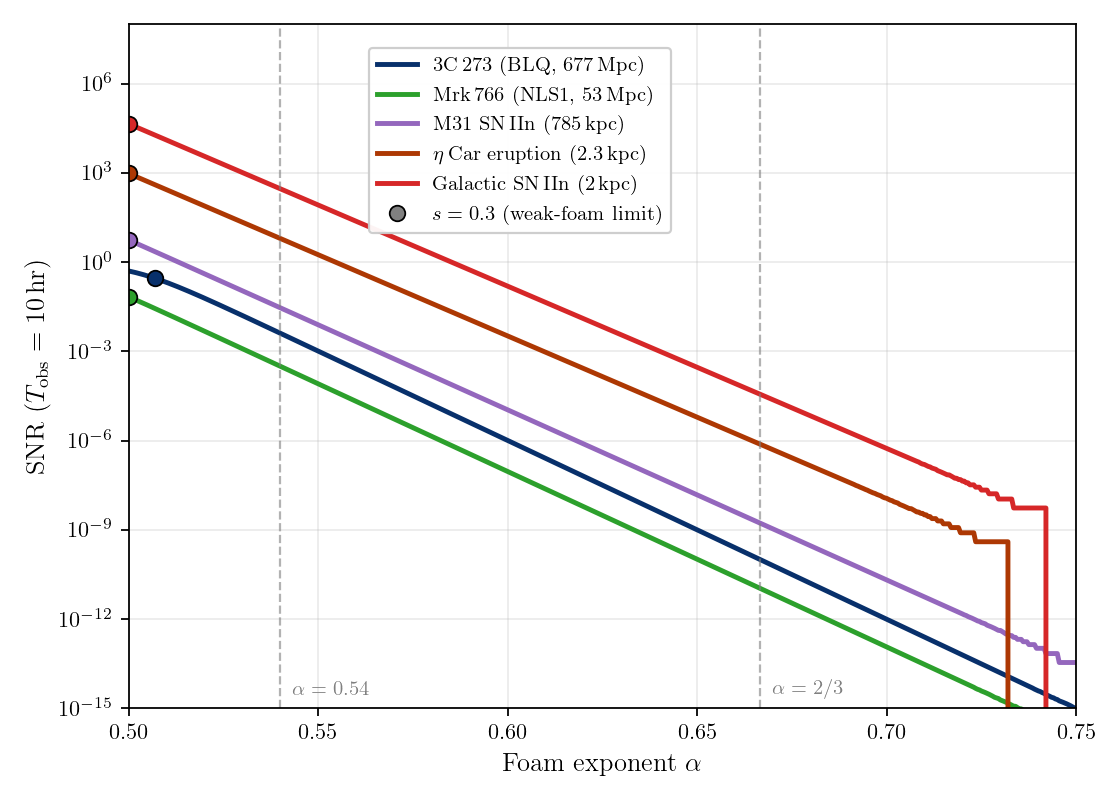
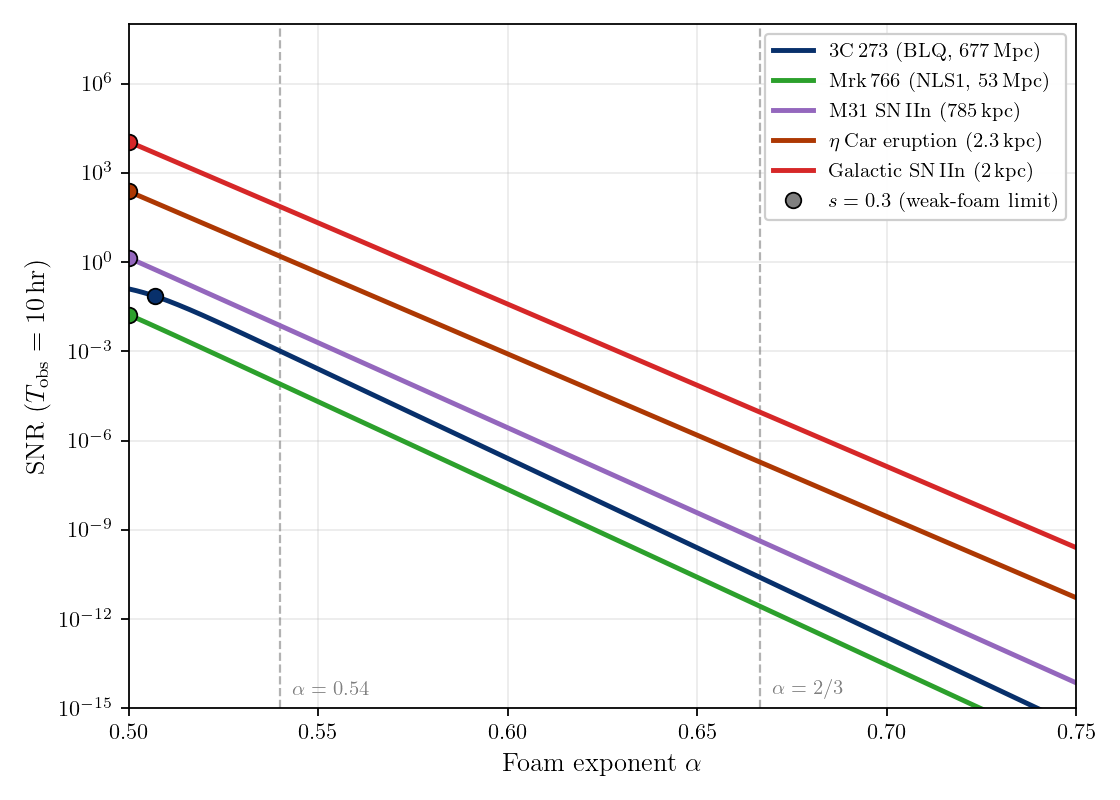
paper.tex: apply 1/4 HBT SNR prefactor, add systematics paragraph; fix figure numerics
- Insert eq:snr_hbt (fundamental single-aperture HBT SNR for unpolarized light)
  with 1/4 prefactor accounting for beamsplitter and polarization dilution,
  citing Guerin et al. 2025
- Apply 1/4 prefactor to eq:snr_det_pt, eq:snr_det_ext, and source-limited
  expressions; update weak-foam limit coefficients accordingly
- Add paragraph noting systematic error control as a separate challenge
- Rename snr_vs_alpha_extended -> snr_vs_alpha
- Fix numerical overflow/underflow in signal computation using erfcx and expm1
- Add Guerin2025 to references.bib

Changed region(s): [[0.0938, 0.0625, 0.9688, 0.9062], [0.6875, 0.0312, 0.9688, 0.2812]]

diff --git a/docs/paper.tex b/docs/paper.tex
@@ -1267,6 +1267,36 @@ prediction $g^{(2)}_{\rm src}-1=|g^{(1)}_{\rm src}|^2$, built from the source
 spectrum via the Wiener--Khinchin theorem; neither requires a separate model of
 the source.
 
+For a single-aperture HBT configuration using a 50/50 beamsplitter with
+unpolarized light, the fundamental signal-to-noise
+ratio~\cite{Guerin2025} is
+\begin{equation}
+\textrm{SNR}_{\rm unpol}
+\;=\; \frac{1}{4}\,\frac{R}{N_s}\,\tau_c\,
+\sqrt{\frac{T_{\rm obs}}{\tau_r}}\,,
+\label{eq:snr_hbt}
+\end{equation}
+where $R$ is the total incident photon count rate, $N_s$ the number of
+spatial modes captured by the aperture, $\tau_c$ the optical coherence time
+of the source, $\tau_r$ the timing resolution (correlation bin width) of the
+detectors, and $T_{\rm obs}$ the total observation time.  The prefactor
+$1/4 = 1/(2\,N_p)$ with $N_p = 2$ polarization modes reflects the fact that
+only photons sharing a polarization state contribute to the bunching signal,
+while the shot noise is set by the total (polarization-summed) count rate at
+each detector.  Equivalently one may write $\textrm{SNR} = \frac{1}{2}
+(R/N_s N_p)\,\tau_c\sqrt{T_{\rm obs}/\tau_r}$, grouping all mode dilution
+into a single factor.
+
+Achieving a statistically significant SNR is a necessary but not sufficient
+condition for a foam detection.  A separate and equally demanding challenge
+is controlling systematic errors---spurious correlations arising from
+detector afterpulsing, electronic crosstalk, optical reflections, and
+atmospheric scintillation---to levels below the expected foam signal
+$|\mathcal{S}|$.  Because the foam signatures are small ($|\mathcal{S}|\ll 1$
+for all viable foam models), even modest systematics can mimic or mask the
+effect; the experimental program must therefore pair SNR estimates with a
+careful systematic budget.
+
 The photon-counting rate is $R = \epsilon\, A\, \dot{n}$, where $\dot{n}$ is the
 source photon flux per unit area within the filter bandpass, $\epsilon$ the
 end-to-end throughput, and $A$ the collecting area. We adopt the baseline
@@ -1280,7 +1310,9 @@ the measurement sits firmly in the detector-limited regime: an unresolved
 foam feature of width $\tau_L$ is diluted to
 $(\tau_L/\sigma_t)\,|\mathcal{S}|$ in a time bin of width $\sigma_t$, with
 statistical noise
-$\sigma[g^{(2)}_{\rm meas}]=1/(R\sqrt{\sigma_t T_{\rm obs}})$. We present the
+$\sigma[g^{(2)}_{\rm meas}]=1/(R\sqrt{\sigma_t T_{\rm obs}})$; the full SNR
+additionally carries the $\tfrac{1}{4}$ mode-dilution prefactor of
+Eq.~\ref{eq:snr_hbt}. We present the
 detector-limited SNR as the primary case throughout and quote the source-limited
 limit ($\tau_L \gtrsim \sigma_t$, requiring sub-ps timing) only as the gain
 that next-generation detectors would unlock with precision optics.
@@ -1308,14 +1340,14 @@ With $\sigma_t \gg \tau_L$ for all sources of interest, the bunching feature
 of width $\tau_L$ is unresolved in a time bin of width $\sigma_t$, and
 \begin{equation}
 \textrm{SNR}_{\rm det}^{\rm pt}
-\;=\; \frac{\tau_L}{\sigma_t}|\mathcal{S}(\tau_L)|\cdot R\sqrt{\sigma_t T_{\rm obs}}
+\;=\; \tfrac{1}{4}\,\frac{\tau_L}{\sigma_t}|\mathcal{S}(\tau_L)|\cdot R\sqrt{\sigma_t T_{\rm obs}}
 \;\xrightarrow{\sigma_\phi\ll 1}\;
-2e^{-2}\sigma_\phi^2\, R\,\frac{\tau_L}{\sqrt{\sigma_t}}\sqrt{T_{\rm obs}}.
+\tfrac{1}{2}e^{-2}\sigma_\phi^2\, R\,\frac{\tau_L}{\sqrt{\sigma_t}}\sqrt{T_{\rm obs}}.
 \label{eq:snr_det_pt}
 \end{equation}
 The detector-limited form carries a $\sqrt{\tau_L/\sigma_t}$ penalty relative
 to source-limited operation
-($\textrm{SNR}_{\rm src}^{\rm pt} = |\mathcal{S}(\tau_L)|\,R\sqrt{\tau_L T_{\rm obs}}$);
+($\textrm{SNR}_{\rm src}^{\rm pt} = \tfrac{1}{4}\,|\mathcal{S}(\tau_L)|\,R\sqrt{\tau_L T_{\rm obs}}$);
 reaching the source-limited limit on broad-line quasars requires
 $\sigma_t \lesssim \tau_L \sim 0.1$\,ps.
 
@@ -1430,15 +1462,15 @@ $\sigma[g^{(2)}_{\rm meas}]=1/(R\sqrt{\sigma_t T_{\rm obs}})$~\cite{Foellmi2009,
 Dravins2013, Guerin2017}, so
 \begin{equation}
 \textrm{SNR}_{\rm det}^{\rm ext}
-\;=\; \frac{\tau_L}{\sigma_t}|\mathcal{S}(0)|\cdot R\sqrt{\sigma_t T_{\rm obs}}
+\;=\; \tfrac{1}{4}\,\frac{\tau_L}{\sigma_t}|\mathcal{S}(0)|\cdot R\sqrt{\sigma_t T_{\rm obs}}
 \;\xrightarrow{s\ll 1}\;
-2\sqrt{\tfrac{2}{\pi}}\,\sigma_0\, R\sqrt{T_{\rm obs}/\sigma_t}.
+\tfrac{1}{2}\sqrt{\tfrac{2}{\pi}}\,\sigma_0\, R\sqrt{T_{\rm obs}/\sigma_t}.
 \label{eq:snr_det_ext}
 \end{equation}
 The SNR in this regime is independent of $\tau_L$: the cusp signal $\propto
 1/\tau_L$ is cancelled by the $\tau_L/\sigma_t$ dilution factor. The penalty
 relative to source-limited operation
-($\textrm{SNR}_{\rm src}^{\rm ext} = |\mathcal{S}(0)|\,R\sqrt{\tau_L T_{\rm obs}}$,
+($\textrm{SNR}_{\rm src}^{\rm ext} = \tfrac{1}{4}\,|\mathcal{S}(0)|\,R\sqrt{\tau_L T_{\rm obs}}$,
 attainable only when $\sigma_t \lesssim \tau_L$) is $\sqrt{\tau_L/\sigma_t}$.
 
 \paragraph{Distance and aperture scaling.}
@@ -1591,7 +1623,7 @@ $\Phi_{\rm eff}$.
 
 \begin{figure}[t]
   \centering
-  \includegraphics[width=0.92\linewidth]{snr_vs_alpha_extended.png}
+  \includegraphics[width=0.92\linewidth]{snr_vs_alpha.png}
   \caption{%
     Signal-to-noise ratio for detecting the extended-source zero-lag bunching
     suppression $\delta g^{(2)}(0)$ as a function of foam exponent $\alpha$,

diff --git a/docs/make_snr_alpha_figure.py b/docs/make_snr_alpha_figure.py
@@ -11,7 +11,7 @@ Outputs:
 import numpy as np
 import matplotlib.pyplot as plt
 import matplotlib.lines as mlines
-from scipy.special import erfc
+from scipy.special import erfcx
 
 plt.rcParams['text.usetex'] = True
 plt.rcParams['font.family'] = 'serif'
@@ -92,14 +92,13 @@ def foam_params(src):
 def snr_from_signal(S_arr, R, tau_c):
     """
     SNR for signal array S_arr, photon rate R, and coherence time tau_c.
-    Selects source-limited or detector-limited branch based on tau_c vs sig_t.
-    Eqs. snr_src_ext/snr_src_pt (source-limited) and snr_det_ext/snr_det_pt
-    (detector-limited) from paper §VII.A.
+    Includes 1/4 prefactor for 50/50 beamsplitter with unpolarized light
+    (Eq. snr_hbt). Selects source-limited or detector-limited branch.
     """
     if tau_c > sig_t:
-        return S_arr * R * np.sqrt(tau_c * T_obs)
+        return 0.25 * S_arr * R * np.sqrt(tau_c * T_obs)
     else:
-        return (tau_c / sig_t) * S_arr * R * np.sqrt(sig_t * T_obs)
+        return 0.25 * (tau_c / sig_t) * S_arr * R * np.sqrt(sig_t * T_obs)
 
 
 def make_axes():
@@ -147,7 +146,9 @@ def compute_extended(sources):
         _, sigma_ell = foam_params(src)
         sigma_0   = np.sqrt(2) * sigma_ell / c_si   # Phi_eff = 0
         s         = sigma_0 / tau_L
-        S         = 1.0 - np.exp(2*s**2) * erfc(np.sqrt(2)*s)
+        # Use weak-foam linear approx where erfcx rounds to 1 (s < ~1e-8)
+        x = np.sqrt(2) * s
+        S = np.where(x < 1e-8, 2.0 * np.sqrt(2.0 / np.pi) * s, 1.0 - erfcx(x))
         snr       = snr_from_signal(S, R, tau_L)
         idx_lim   = np.argmin(np.abs(s - 0.3))
         results.append(dict(label=src['label'], color=src['color'],
@@ -158,10 +159,10 @@ def compute_extended(sources):
 fig, ax = make_axes()
 ext_results = compute_extended(SOURCES)
 finish_figure(ax, ext_results, r'$s=0.3$ (weak-foam limit)')
-fig.savefig('snr_vs_alpha_extended.pdf')
-fig.savefig('snr_vs_alpha_extended.png', dpi=160)
+fig.savefig('snr_vs_alpha.pdf')
+fig.savefig('snr_vs_alpha.png', dpi=160)
 plt.close(fig)
-print('Wrote snr_vs_alpha_extended.pdf and snr_vs_alpha_extended.png')
+print('Wrote snr_vs_alpha.pdf and snr_vs_alpha.png')
 
 
 # ---------------------------------------------------------------
@@ -181,7 +182,8 @@ def compute_pointsource(sources):
         tau_c        = coherence_time(src)   # same as tau_L; wide filter used for fair comparison
         R            = photon_rate(src)
         sigma_phi, _ = foam_params(src)
-        S            = np.exp(-2) * (1.0 - np.exp(-2 * sigma_phi**2))
+        # Use weak-foam quadratic approx where exp rounds to 1 (sigma_phi < ~1e-8)
+        S            = np.exp(-2) * (-np.expm1(-2 * sigma_phi**2))
         snr          = snr_from_signal(S, R, tau_c)
         idx_lim      = np.argmin(np.abs(sigma_phi - 0.3))
         results.append(dict(label=src['label'], color=src['color'],
